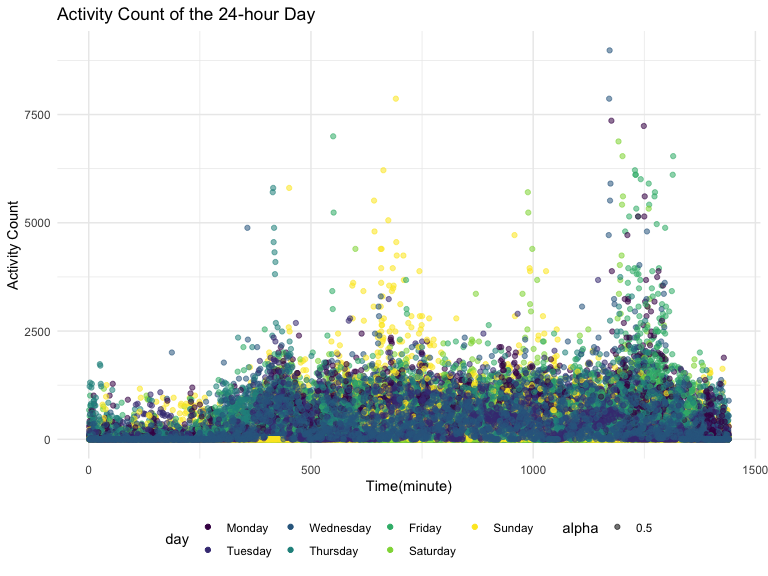
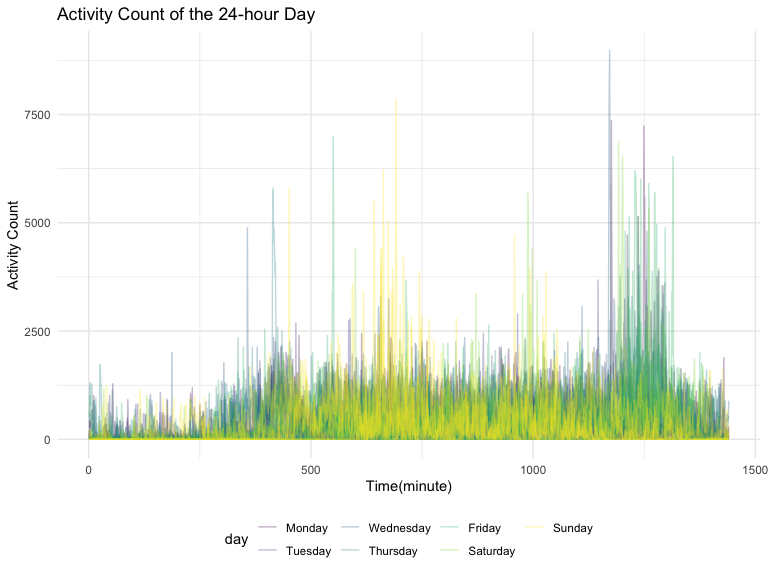
Making hex graph showing tmax vs. tmin and density ridge graph showing the snowfall values seperated by year.

diff --git a/p8105_hw3_yj2752.md b/p8105_hw3_yj2752.md
@@ -18,6 +18,7 @@ library(tidyverse)
 ``` r
 library(patchwork)
 library(p8105.datasets)
+library(ggridges)
 
 knitr::opts_chunk$set(
     echo = TRUE,
@@ -239,29 +240,35 @@ accel_data_tidy %>%
 
 <img src="p8105_hw3_yj2752_files/figure-gfm/unnamed-chunk-11-1.png" width="90%" />
 
-Use `ggplot()` to draw a plot showing the activity of each minute during
-a 24-day. The color of the plot represents the day of the week. Based on
-the graph, I can see there are several peaks over the day that indicates
-the individual tends to move more during those moment. Also, different
-days of the week might have different peak pattern (difference of peak
-in weekends). The first peak is around 400 minutes(possibly wake up and
-morning routine), 2nd peak is around noon (this peak is majorly for
-Sunday, and this might be the Sunday wake up time), 3rd and 4th peak is
-around 1000 and 1200. The activity at night(0-300) is less than the day
-time because of the sleep.
+Use `ggplot()` to draw a line plot and a scatterplot showing the
+activity of each minute during a 24-day. The color of the plot
+represents the day of the week. Based on the graph, I can see there are
+several peaks over the day that indicates the individual tends to move
+more during those moment. Also, different days of the week might have
+different peak pattern (difference of peak in weekends). The first peak
+is around 400 minutes(possibly wake up and morning routine), 2nd peak is
+around noon (this peak is majorly for Sunday, and this might be the
+Sunday wake up time), 3rd and 4th peak is around 1000 and 1200. The
+activity at night(0-300) is less than the day time because of the sleep.
 
 ``` r
 accel_data_tidy %>%
-  ggplot(aes(x = minute,y = activity_count, color = day)) +
-  geom_point(aes(alpha = 0.5)) +
+  ggplot(aes(x = minute,y = activity_count, group = interaction(week,day), color = day)) +
+  geom_line(alpha = 0.3) +
   labs(x = 'Time(minute)', y = 'Activity Count', title = 'Activity Count of the 24-hour Day')
 ```
 
 <img src="p8105_hw3_yj2752_files/figure-gfm/unnamed-chunk-12-1.png" width="90%" />
 
-### Problem3
+``` r
+accel_data_tidy %>%
+  ggplot(aes(x = minute,y = activity_count, color = day)) +
+  geom_point(alpha = 0.3) +
+  labs(x = 'Time(minute)', y = 'Activity Count', title = 'Activity Count of the 24-hour Day')
+```
 
-Load ny_noaa data
+<img src="p8105_hw3_yj2752_files/figure-gfm/unnamed-chunk-13-1.png" width="90%" />
+\### Problem3 Load ny_noaa data
 
 ``` r
 data("ny_noaa")
@@ -317,15 +324,18 @@ should be transfer to numeric type). There are many missing values in
 columns except id and date and that might cause problem when generating
 the plot.
 
-Cleaning the table by converting tmax and tmin in to numeric type and
-seperate date into 3 columns(year,month,day).
+Cleaning the table by converting tmax, tmin and year into numeric type
+and seperate date into 3 columns(year,month,day). tmax, tmin and prcp
+are set to normal unit for us to read (degree of C and mm).
 
 ``` r
 ny_noaa_clean <- 
   ny_noaa %>%
-  mutate(tmax = as.numeric(tmax)) %>%
-  mutate(tmin = as.numeric(tmin)) %>%
-  separate(date, c('year','month','day'), sep = '-')
+  mutate(tmax = as.numeric(tmax)/10) %>%
+  mutate(tmin = as.numeric(tmin)/10) %>%
+  mutate(prcp = prcp/10) %>%
+  separate(date, c('year','month','day'), sep = '-') %>%
+  mutate(year = as.numeric(year))
 ```
 
 The most frequent observed value of snowfall is 0 since in the most of
@@ -341,3 +351,55 @@ getmode(ny_noaa_clean$snow)
 ```
 
     ## [1] 0
+
+The plot of average tmax over years for all stations are plot by
+`geom_line()`. Each color line represents a different station. Even
+though there is few outliers (14°C in July or -15°C in January, etc.)
+exist, the average max temperature in January and July constantly
+fluctuates in their certain range. As the graph shown, the average max
+temperature of July is overall higher than January, and January’s
+average max temperature fluctuates in a larger range than July.
+
+``` r
+ny_noaa_clean %>%
+  filter(month %in% c('01','07')) %>%
+  mutate(month = ifelse(month == '01','January','July')) %>%
+  group_by(id,year,month) %>%
+  summarise(mean_tmax = mean(tmax,na.rm = TRUE)) %>%
+  ggplot(aes(x = year, y = mean_tmax,color = id)) +
+  geom_line(alpha = 0.2) +
+  facet_grid(. ~ month) +
+  theme(legend.position="none",panel.spacing = unit(1, "cm")) +
+  labs(x = 'Year', 
+       y = 'Average Maximum Temperature(°C)',
+       title = 'Average Maximum Temperature(°C) of January and July Over Years')
+```
+
+    ## `summarise()` has grouped output by 'id', 'year'. You can override using the
+    ## `.groups` argument.
+
+<img src="p8105_hw3_yj2752_files/figure-gfm/unnamed-chunk-18-1.png" width="90%" />
+`patchwork` is used to combine the hex graph and the density ridges
+graph below.
+
+``` r
+plot_tmax_tmin <- 
+  ny_noaa_clean %>%
+  ggplot(aes(x = tmin, y = tmax)) +
+  geom_hex() +
+  theme(legend.key.width = unit(1.2, 'cm')) +
+  labs(x = 'tmin(°C)', y = 'tmax(°C)', title = 'tmax vs. tmin')
+
+plot_snow <- 
+  ny_noaa_clean %>%
+  filter(snow < 100 & snow >0) %>%
+  ggplot(aes(x = snow, y = year, group = year)) +
+  geom_density_ridges() +
+  labs(x = 'Snowfall(mm)', y = 'Year',title = 'Distribution of Snowfall Values')
+
+plot_tmax_tmin + plot_snow
+```
+
+    ## Picking joint bandwidth of 3.76
+
+<img src="p8105_hw3_yj2752_files/figure-gfm/unnamed-chunk-19-1.png" width="90%" />
